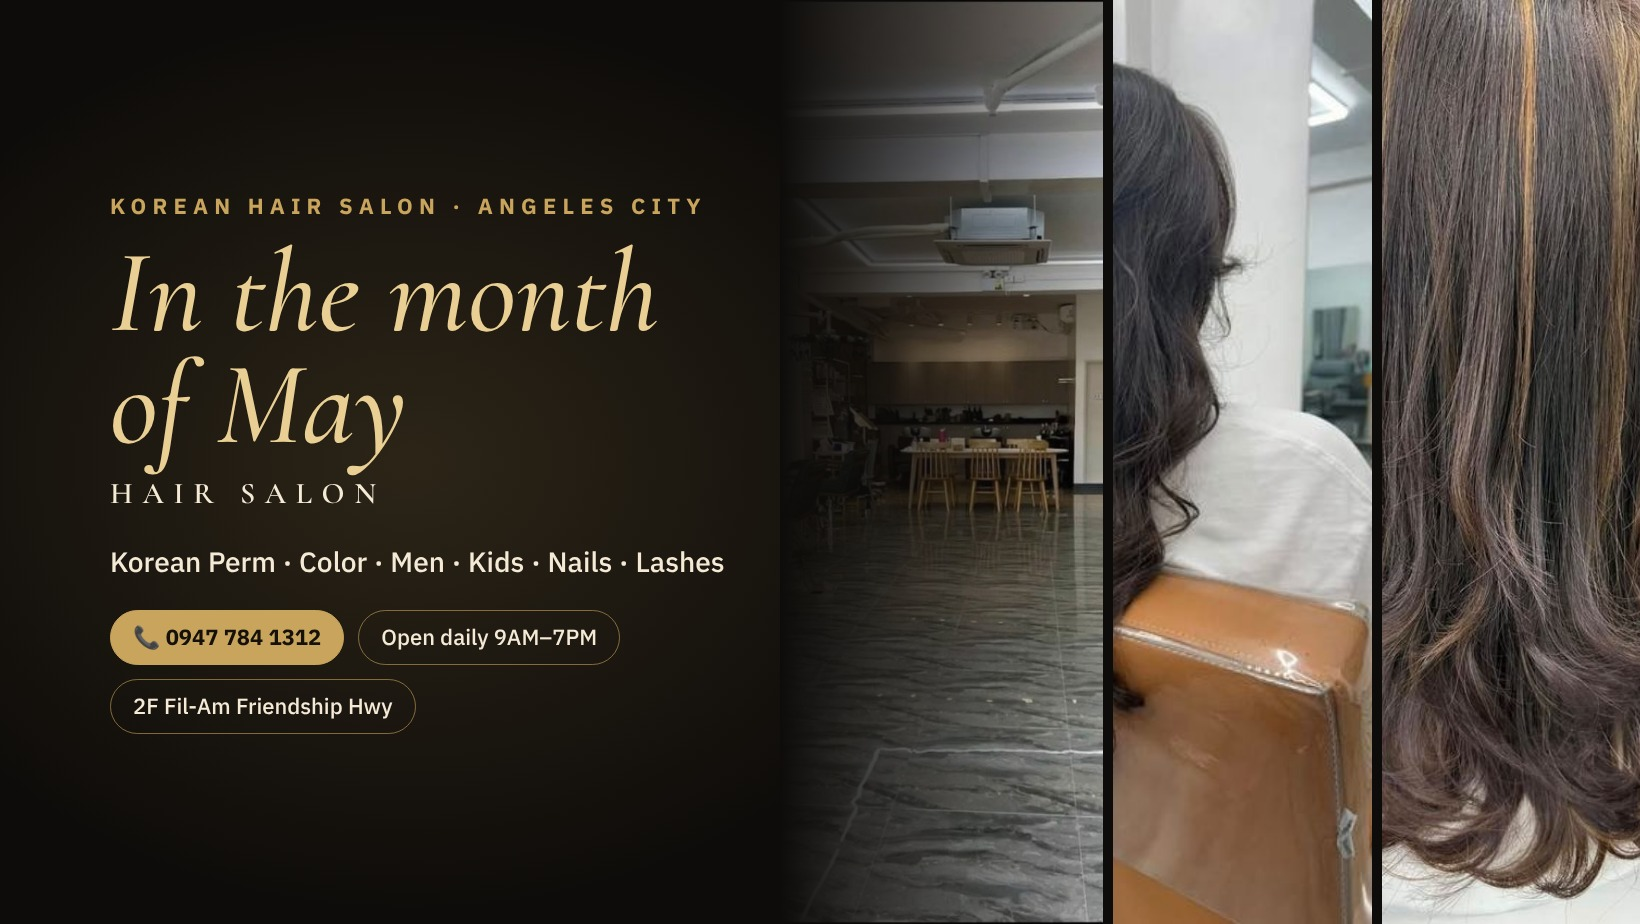
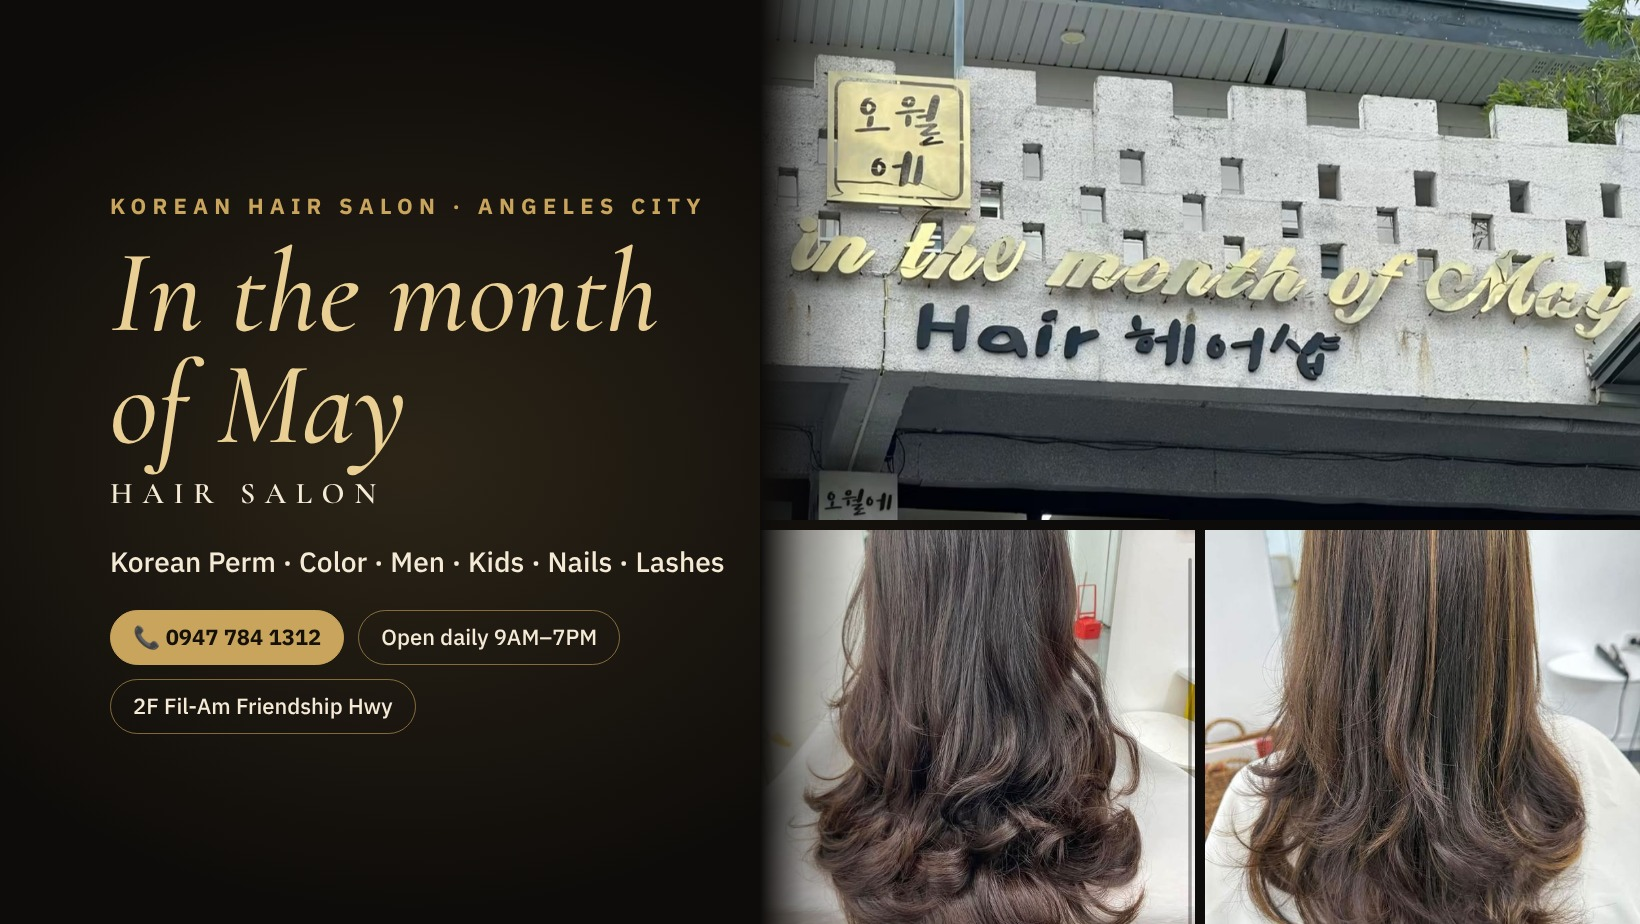
May salon: Facebook cover with storefront sign
Claude-Session: https://claude.ai/code/session_01Cv2GKjfYguCD4NS6iHVXB1

diff --git a/may-salon/ad/cover.html b/may-salon/ad/cover.html
@@ -4,9 +4,10 @@
 html,body{margin:0}
 .c{position:relative;width:1640px;height:924px;background:#0e0c0a;overflow:hidden;font-family:"IBM Plex Sans KR",sans-serif;color:#f4ead6}
 .glow{position:absolute;inset:0;background:radial-gradient(50% 70% at 25% 50%,rgba(201,164,92,.16),transparent 70%)}
-.tiles{position:absolute;right:0;top:0;bottom:0;width:860px;display:grid;grid-template-columns:1.25fr 1fr 1fr;gap:10px}
+.tiles{position:absolute;right:0;top:0;bottom:0;width:880px;display:grid;grid-template-columns:1fr 1fr;grid-template-rows:520px 1fr;gap:10px}
+.tiles .sign{grid-column:1 / -1}
 .tiles div{background-size:cover;background-position:center}
-.tiles::before{content:"";position:absolute;inset:0;background:linear-gradient(90deg,#0e0c0a 0%,rgba(14,12,10,.6) 18%,rgba(14,12,10,0) 40%);z-index:1}
+.tiles::before{content:"";position:absolute;inset:0;background:linear-gradient(90deg,#0e0c0a 0%,rgba(14,12,10,.4) 5%,rgba(14,12,10,0) 12%);z-index:1}
 .txt{position:absolute;left:110px;top:150px;height:624px;width:720px;display:flex;flex-direction:column;justify-content:center;z-index:2}
 .eb{font:700 22px "IBM Plex Sans KR";letter-spacing:.28em;color:#c9a45c;text-transform:uppercase}
 h1{margin:14px 0 0;font:500 118px/0.95 "Cormorant Garamond",serif;font-style:italic;color:#e9cf93}
@@ -17,7 +18,7 @@ h1{margin:14px 0 0;font:500 118px/0.95 "Cormorant Garamond",serif;font-style:ita
 .info .gold{background:#c9a45c;color:#15100a;border-color:#c9a45c;font-weight:700}
 </style></head><body>
 <div class="c"><div class="glow"></div>
-<div class="tiles"><div style="background-image:url(../site/img/s1.jpg);background-position:40% 60%"></div><div style="background-image:url(../site/img/p02.jpg)"></div><div style="background-image:url(../site/img/p23.jpg)"></div></div>
+<div class="tiles"><div class="sign" style="background-image:url(../site/img/sign.jpg);background-size:100% auto;background-position:50% 60%"></div><div style="background-image:url(../site/img/p01.jpg)"></div><div style="background-image:url(../site/img/p23.jpg)"></div></div>
 <div class="txt">
  <div class="eb">Korean Hair Salon · Angeles City</div>
  <h1>In the month<br>of May</h1>
